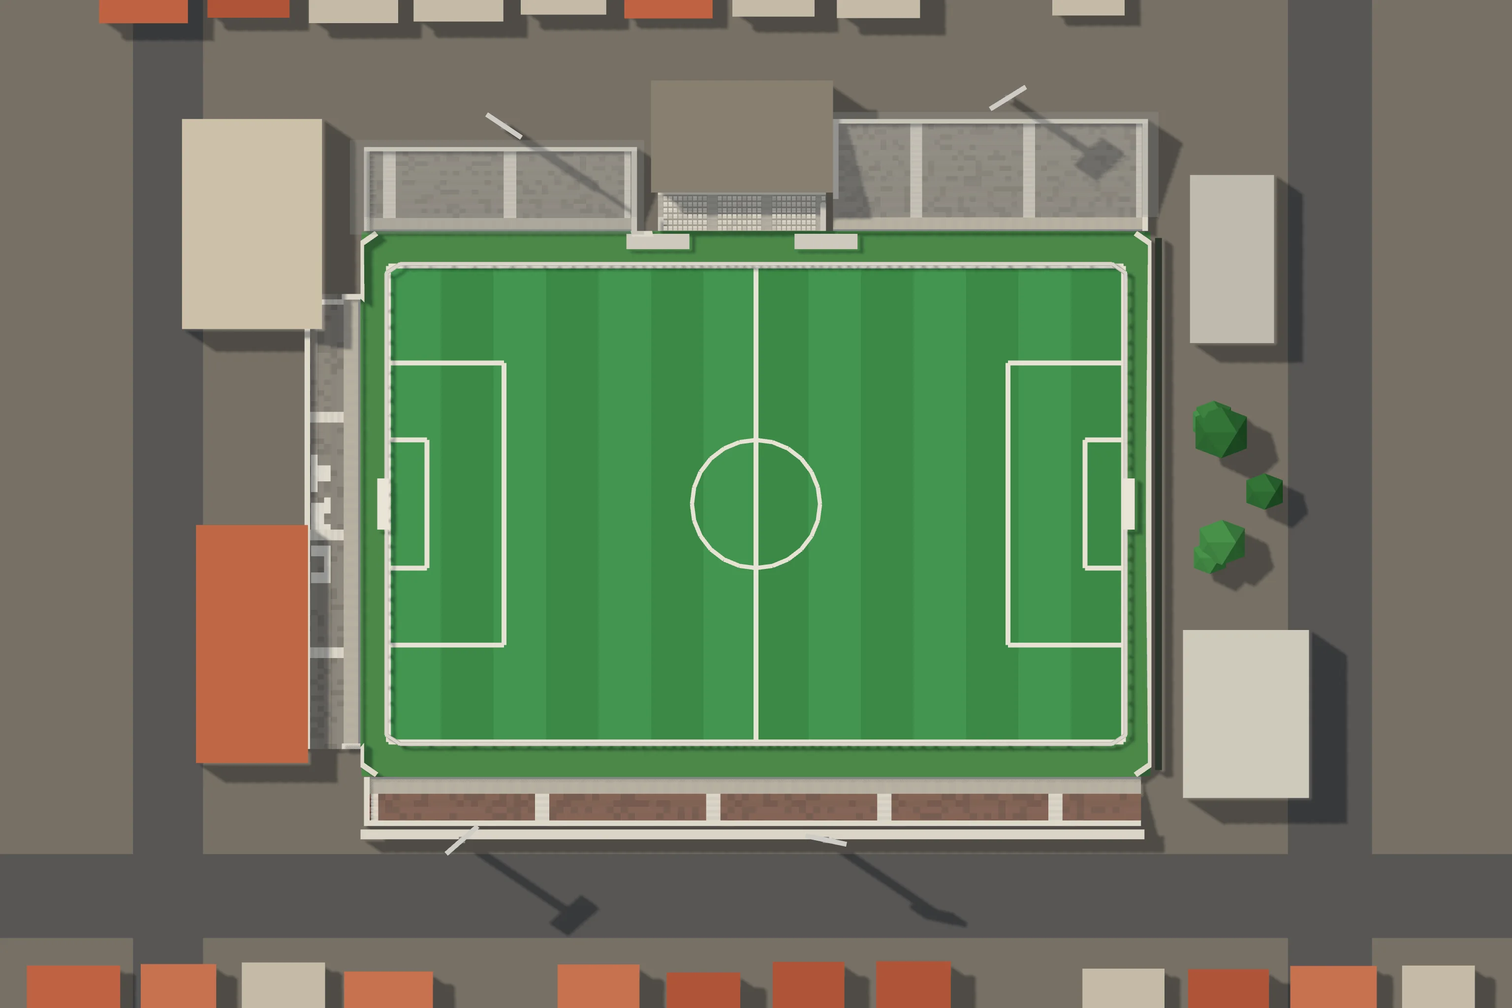
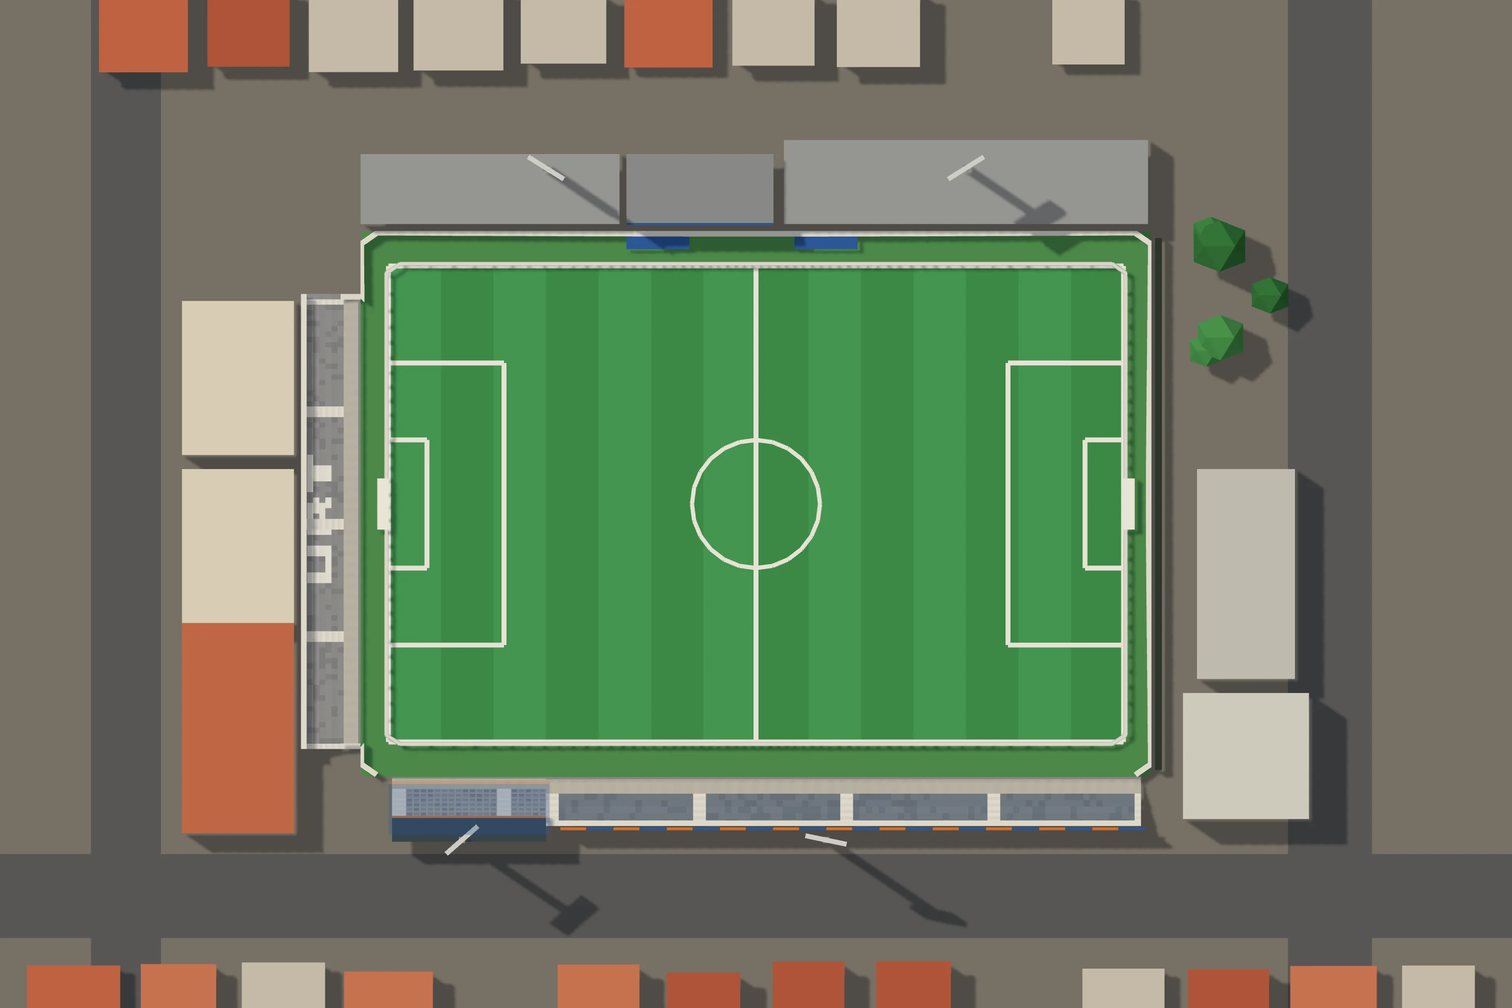
Zama Maciel pelas fotos do dono: o oeste sem arquibancada (os prédios do clube e a caixa das cabines), a lateral leste cinza-azulada com a tribuna BAMBU & SABIÁ, a arquibancada do sul com a visitante
Claude-Session: https://claude.ai/code/session_019hwwMAyyP7ZAvyq6wYTetr

Changed region(s): [[0.0625, 0.0, 0.9062, 0.875], [0.0625, 0.9062, 0.1562, 0.9688]]

diff --git a/cenario3d/dados/estadios_cenas.js b/cenario3d/dados/estadios_cenas.js
@@ -13006,37 +13006,37 @@ window.__ESTADIOS = {
    "visitante": 3
   },
   "foto": {
-   "imagem": "img/cenas/estadio_zama_maciel.webp?v=c364240a",
-   "mascara": "384;384;384;384;384;384;384;384;384;384;384;384;384;384;384;384;384;384;384;384;384;384;384;384;384;384;384;384;384;384;384;219,73,92;219,73,92;219,73,92;219,73,92;218,74,92;218,74,92;218,74,92;92,61,64,75,92;92,61,64,75,92;92,62,63,75,92;92,62,63,75,92;92,63,61,76,92;92,63,61,76,92;92,63,61,76,92;92,64,59,77,92;92,64,59,77,92;92,65,58,77,92;92,65,58,77,92;92,66,6,48,2,78,92;92,66,6,48,2,78,92;92,67,6,46,3,78,92;92,67,6,46,2,79,92;92,67,6,46,2,79,92;92,68,6,45,2,79,92;92,68,6,44,3,79,92;92,69,5,44,2,80,92;92,69,6,43,2,80,92;92,200,92;91,202,91;91,202,91;91,202,91;91,202,91;91,202,91;91,202,91;91,202,91;91,7,188,7,91;91,6,190,6,91;78,2,11,6,190,6,91;78,4,9,6,190,6,91;78,5,8,6,190,6,91;78,7,6,6,190,6,91;78,9,4,6,190,6,91;78,11,2,6,190,6,91;78,19,190,6,91;78,19,190,6,91;78,19,190,6,91;78,19,190,6,91;78,19,190,6,91;78,19,190,6,91;78,19,190,6,91;78,19,190,6,91;78,19,190,6,91;78,19,190,6,91;78,19,190,6,91;78,19,190,6,91;78,19,190,6,91;78,19,190,6,91;78,19,190,6,91;78,19,190,6,91;78,19,190,6,91;78,19,190,6,91;78,19,190,6,91;78,19,190,6,91;78,19,190,6,91;78,19,190,6,91;78,19,190,6,91;78,19,190,6,91;78,19,190,6,91;78,19,190,6,91;78,19,190,6,91;78,19,190,6,91;78,19,190,6,91;78,19,190,6,91;78,19,190,6,91;78,19,190,6,91;78,19,190,6,91;78,19,190,6,91;78,19,190,6,91;78,19,190,6,91;78,19,190,6,91;78,19,190,6,91;78,19,190,6,91;78,19,190,6,91;78,19,190,6,91;78,19,190,6,91;78,19,190,6,91;78,19,190,6,91;78,19,190,6,91;78,19,190,6,91;78,19,190,6,91;78,19,190,6,91;78,19,190,6,91;78,19,190,6,91;78,19,190,6,91;78,19,190,6,91;78,19,190,6,91;78,19,190,6,91;78,19,190,6,91;78,19,190,6,91;78,19,190,6,91;78,19,190,6,91;78,19,190,6,91;78,19,190,6,91;78,19,190,6,91;78,19,190,6,91;78,19,190,6,91;78,19,190,6,91;78,19,190,6,91;78,19,190,6,91;78,19,190,6,91;78,19,190,6,91;78,19,190,6,91;78,19,190,6,91;78,19,190,6,91;78,19,190,6,91;78,19,190,6,91;78,19,190,6,91;78,19,190,6,91;78,19,190,6,91;78,19,190,6,91;78,19,190,6,91;78,19,190,6,91;78,19,190,6,91;78,19,190,6,91;78,19,190,6,91;78,19,190,6,91;78,19,190,6,91;78,19,190,6,91;78,19,190,6,91;78,19,190,6,91;78,19,190,6,91;78,19,190,6,91;78,19,190,6,91;78,19,190,6,91;78,19,190,6,91;78,19,190,6,91;78,19,190,6,91;78,19,190,6,91;78,19,190,6,91;78,19,190,6,91;78,19,190,6,91;78,19,190,6,91;78,19,190,6,91;78,19,190,6,91;78,19,190,6,91;78,19,190,6,91;78,19,190,6,91;78,19,190,6,91;78,19,190,6,91;78,19,190,6,91;78,19,190,6,91;78,19,190,6,91;78,19,190,6,91;78,19,190,6,91;78,19,190,6,91;78,19,190,6,91;78,19,190,6,91;78,19,190,6,91;78,20,188,7,91;78,215,91;78,11,2,202,91;78,10,3,202,91;78,8,5,202,91;78,6,7,202,91;78,5,8,202,91;78,3,10,202,91;92,199,93;92,199,93;92,200,92;92,200,92;92,200,92;92,200,92;92,200,92;92,200,92;92,200,92;92,200,92;92,200,92;92,200,92;384;384;384;384;384;384;384;384;384;384;384;384;384;384;384;384;384;384;384;384;384;384;384;384;384;384;384;384;384;384;384;384;384;384;384;384;384;384;384;384;384;384;384;384;384;384;384"
+   "imagem": "img/cenas/estadio_zama_maciel.webp?v=2e8cee1f",
+   "mascara": "384;384;384;384;384;384;384;384;384;384;384;384;384;384;384;384;384;384;384;384;384;384;384;384;384;384;384;384;384;384;384;384;384;384;384;384;384;384;384;384;384;384;384;384;384;384;384;384;384;384;384;384;384;384;384;384;384;384;136,112,136;91,202,91;91,202,91;91,202,91;91,202,91;91,202,91;91,202,91;91,202,91;91,7,188,7,91;77,1,13,6,190,6,91;77,3,11,6,190,6,91;77,5,9,6,190,6,91;77,6,8,6,190,6,91;77,8,6,6,190,6,91;77,10,4,6,190,6,91;77,12,2,6,190,6,91;77,20,190,6,91;77,20,190,6,91;77,20,190,6,91;77,20,190,6,91;77,20,190,6,91;77,20,190,6,91;77,20,190,6,91;77,20,190,6,91;77,20,190,6,91;77,20,190,6,91;77,20,190,6,91;77,20,190,6,91;77,20,190,6,91;77,20,190,6,91;77,20,190,6,91;77,20,190,6,91;77,20,190,6,91;77,20,190,6,91;77,20,190,6,91;77,20,190,6,91;77,20,190,6,91;77,20,190,6,91;77,20,190,6,91;77,20,190,6,91;77,20,190,6,91;77,20,190,6,91;77,20,190,6,91;77,20,190,6,91;77,20,190,6,91;77,20,190,6,91;77,20,190,6,91;77,20,190,6,91;77,20,190,6,91;77,20,190,6,91;77,20,190,6,91;77,20,190,6,91;77,20,190,6,91;77,20,190,6,91;77,20,190,6,91;77,20,190,6,91;77,20,190,6,91;77,20,190,6,91;77,20,190,6,91;77,20,190,6,91;77,20,190,6,91;77,20,190,6,91;77,20,190,6,91;77,20,190,6,91;77,20,190,6,91;77,20,190,6,91;77,20,190,6,91;77,20,190,6,91;77,20,190,6,91;77,20,190,6,91;77,20,190,6,91;77,20,190,6,91;77,20,190,6,91;77,20,190,6,91;77,20,190,6,91;77,20,190,6,91;77,20,190,6,91;77,20,190,6,91;77,20,190,6,91;77,20,190,6,91;77,20,190,6,91;77,20,190,6,91;77,20,190,6,91;77,20,190,6,91;77,20,190,6,91;77,20,190,6,91;77,20,190,6,91;77,20,190,6,91;77,20,190,6,91;77,20,190,6,91;77,20,190,6,91;77,20,190,6,91;77,20,190,6,91;77,20,190,6,91;77,20,190,6,91;77,20,190,6,91;77,20,190,6,91;77,20,190,6,91;77,20,190,6,91;77,20,190,6,91;77,20,190,6,91;77,20,190,6,91;77,20,190,6,91;77,20,190,6,91;77,20,190,6,91;77,20,190,6,91;77,20,190,6,91;77,20,190,6,91;77,20,190,6,91;77,20,190,6,91;77,20,190,6,91;77,20,190,6,91;77,20,190,6,91;77,20,190,6,91;77,20,190,6,91;77,20,190,6,91;77,20,190,6,91;77,20,190,6,91;77,20,190,6,91;77,20,190,6,91;77,20,190,6,91;77,20,190,6,91;77,20,190,6,91;77,20,190,6,91;77,20,190,6,91;77,20,190,6,91;77,20,190,6,91;77,20,190,6,91;77,20,190,6,91;77,20,190,6,91;77,20,190,6,91;77,21,188,7,91;77,216,91;77,12,2,202,91;77,11,3,202,91;77,9,5,202,91;77,7,7,202,91;77,6,8,202,91;77,4,10,202,91;99,192,93;98,193,93;97,195,92;95,197,92;94,198,92;93,199,92;92,200,92;92,200,92;92,200,92;92,200,92;92,200,92;92,200,92;384;384;384;384;384;384;384;384;384;384;384;384;384;384;384;384;384;384;384;384;384;384;384;384;384;384;384;384;384;384;384;384;384;384;384;384;384;384;384;384;384;384;384;384;384;384;384"
   },
   "cena": {
    "nome": "Zama Maciel",
    "faixas": {
     "mandante1": {
-     "x": 1536,
+     "x": 1580,
      "y": 1522,
      "len": 130,
      "dir": [
-      0,
+      -0.09,
       -1
      ]
     },
     "mandante2": {
-     "x": 1120,
-     "y": 529,
+     "x": 1871,
+     "y": 1520,
      "len": 130,
      "dir": [
-      0.64,
-      0.77
+      -0.56,
+      -0.83
      ]
     },
     "mandante3": {
-     "x": 1896,
-     "y": 528,
+     "x": 1214,
+     "y": 1520,
      "len": 130,
      "dir": [
-      -0.59,
-      0.81
+      0.54,
+      -0.84
      ]
     },
     "visitante1": {
@@ -13073,7 +13073,7 @@ window.__ESTADIOS = {
      "rot": "MANDANTE 1º ESCALÃO",
      "lado": "mandante",
      "entrada": "portao_mandante",
-     "x": 1536,
+     "x": 1586,
      "y": 1595,
      "jogador": true
     },
@@ -13082,23 +13082,23 @@ window.__ESTADIOS = {
      "rot": "MANDANTE 2º ESCALÃO",
      "lado": "mandante",
      "entrada": "portao_mandante",
-     "x": 1027,
-     "y": 417
+     "x": 1921,
+     "y": 1595
     },
     {
      "id": "mandante3",
      "rot": "MANDANTE 3º ESCALÃO",
      "lado": "mandante",
      "entrada": "portao_mandante",
-     "x": 1997,
-     "y": 389
+     "x": 1165,
+     "y": 1595
     },
     {
      "id": "visitante1",
      "rot": "VISITANTE 1º ESCALÃO",
      "lado": "visitante",
      "entrada": "portao_visitante",
-     "x": 702,
+     "x": 698,
      "y": 1024
     },
     {
@@ -13106,16 +13106,16 @@ window.__ESTADIOS = {
      "rot": "VISITANTE 2º ESCALÃO",
      "lado": "visitante",
      "entrada": "portao_visitante",
-     "x": 694,
-     "y": 925
+     "x": 690,
+     "y": 924
     },
     {
      "id": "visitante3",
      "rot": "VISITANTE 3º ESCALÃO",
      "lado": "visitante",
      "entrada": "portao_visitante",
-     "x": 710,
-     "y": 1121
+     "x": 707,
+     "y": 1122
     }
    ],
    "entradas": [
@@ -13125,10 +13125,10 @@ window.__ESTADIOS = {
      "lado": "mandante",
      "raio": 40,
      "dir": [
-      0,
+      0.09,
       1
      ],
-     "x": 1536,
+     "x": 1589,
      "y": 1628
     },
     {
@@ -13140,26 +13140,26 @@ window.__ESTADIOS = {
       -1,
       0
      ],
-     "x": 669,
+     "x": 629,
      "y": 1024
     }
    ],
    "pmPostos": [
     {
-     "x": 727,
+     "x": 724,
      "y": 807
     },
     {
-     "x": 669,
-     "y": 792
+     "x": 664,
+     "y": 790
     },
     {
-     "x": 727,
+     "x": 724,
      "y": 1241
     },
     {
-     "x": 669,
-     "y": 1256
+     "x": 664,
+     "y": 1258
     }
    ],
    "grades": [
@@ -13171,8 +13171,8 @@ window.__ESTADIOS = {
       "y": 863
      },
      "ate": {
-      "x": 625,
-      "y": 830
+      "x": 618,
+      "y": 829
      },
      "modulos": 6,
      "espessura": 10
@@ -13185,8 +13185,8 @@ window.__ESTADIOS = {
       "y": 1185
      },
      "ate": {
-      "x": 625,
-      "y": 1218
+      "x": 618,
+      "y": 1219
      },
      "modulos": 6,
      "espessura": 10

diff --git a/cenario3d/planta.html b/cenario3d/planta.html
@@ -289,24 +289,24 @@ button:focus-visible, input:focus-visible { outline: 2px solid var(--selecao); o
 
 <script type="module">
 import * as THREE from 'https://cdn.jsdelivr.net/npm/three@0.160.0/build/three.module.min.js';
-import { planoDaCasa, montarCasa, juntarBlocos, lugarDoDecalque, placasDoLote, segmentosDoMuro, carrosDoEstacionamento, portaoDoEstacionamento } from './js/casas3d.js?v=b59ffd1335';
-import { montarModelos } from './js/modelos3d.js?v=b59ffd1335';
-import { moldeDaPeca, comTransformador } from './js/props3d.js?v=b59ffd1335';
-import { ATLAS } from './js/modelos_atlas.js?v=b59ffd1335';
-import { Construtor, sorteio } from './js/construtor3d.js?v=b59ffd1335';
-import { gerarProposta, MAPAS, MAPA_DO_PORTE, RUA, LONGE_DO_ESTADIO_M, cisaoDaPraca, VAO_CIDADES_M, PRAIA_A_MAIS } from './js/proposta.js?v=b59ffd1335';
-import { montarSede, nivelQueCabe } from './js/sede3d.js?v=b59ffd1335';
-import { onibus as onibusDetalhe, juntar as juntarDetalhe } from './js/detalhe3d.js?v=b59ffd1335';
-import { montarLoteDeVeraneio, plantaDoLote, festaNoMundo, noMundoDoLote, cenaDaFesta, detalheDaCasaDaFesta } from './js/veraneio3d.js?v=b59ffd1335';
-import { montarCaravana, cenaDaCaravana } from './js/caravana3d.js?v=b59ffd1335';
-import { montarEstacao, montarTunel, montarCarro, TREM } from './js/metro3d.js?v=b59ffd1335';
-import { montarShopping, montarDelegacia, montarPraca, montarIgreja, montarEscola, montarHospital } from './js/equip3d.js?v=b59ffd1335';
-import { montarEquipAntigo, TIPOS_ANTIGOS } from './js/equip_antigo3d.js?v=b59ffd1335';
-import { PECAS_PRAIA, montarPecaDaPraia } from './js/praia3d.js?v=b59ffd1335';
-import { ESPECIES_LP, FLORA_LP, montarArvoreLowpoly, montarAsDez, facesDaArvore, especieLowpolyDe } from './js/arvores_lowpoly.js?v=b59ffd1335';
-import { plantarMato, montarMato, LONGE_M, DENSIDADE, LADRILHO_M } from './js/mato3d.js?v=b59ffd1335';
-import { ESTADIOS_JOGO, montarEstadioJogo, glbDoEstadio, cortarEstadio, plantaDoEstadio, modeloDaLotacao, nomeDoLetreiro, nomeComAcento, marcaDoEstadio, BOCAS_DOS_PORTOES, BILHETERIAS_DA_RUA } from './js/estadios3d.js?v=b59ffd1335';
-import { PECAS_AMBULANTES, montarAmbulante } from './js/ambulantes3d.js?v=b59ffd1335';
+import { planoDaCasa, montarCasa, juntarBlocos, lugarDoDecalque, placasDoLote, segmentosDoMuro, carrosDoEstacionamento, portaoDoEstacionamento } from './js/casas3d.js?v=353cb2289a';
+import { montarModelos } from './js/modelos3d.js?v=353cb2289a';
+import { moldeDaPeca, comTransformador } from './js/props3d.js?v=353cb2289a';
+import { ATLAS } from './js/modelos_atlas.js?v=353cb2289a';
+import { Construtor, sorteio } from './js/construtor3d.js?v=353cb2289a';
+import { gerarProposta, MAPAS, MAPA_DO_PORTE, RUA, LONGE_DO_ESTADIO_M, cisaoDaPraca, VAO_CIDADES_M, PRAIA_A_MAIS } from './js/proposta.js?v=353cb2289a';
+import { montarSede, nivelQueCabe } from './js/sede3d.js?v=353cb2289a';
+import { onibus as onibusDetalhe, juntar as juntarDetalhe } from './js/detalhe3d.js?v=353cb2289a';
+import { montarLoteDeVeraneio, plantaDoLote, festaNoMundo, noMundoDoLote, cenaDaFesta, detalheDaCasaDaFesta } from './js/veraneio3d.js?v=353cb2289a';
+import { montarCaravana, cenaDaCaravana } from './js/caravana3d.js?v=353cb2289a';
+import { montarEstacao, montarTunel, montarCarro, TREM } from './js/metro3d.js?v=353cb2289a';
+import { montarShopping, montarDelegacia, montarPraca, montarIgreja, montarEscola, montarHospital } from './js/equip3d.js?v=353cb2289a';
+import { montarEquipAntigo, TIPOS_ANTIGOS } from './js/equip_antigo3d.js?v=353cb2289a';
+import { PECAS_PRAIA, montarPecaDaPraia } from './js/praia3d.js?v=353cb2289a';
+import { ESPECIES_LP, FLORA_LP, montarArvoreLowpoly, montarAsDez, facesDaArvore, especieLowpolyDe } from './js/arvores_lowpoly.js?v=353cb2289a';
+import { plantarMato, montarMato, LONGE_M, DENSIDADE, LADRILHO_M } from './js/mato3d.js?v=353cb2289a';
+import { ESTADIOS_JOGO, montarEstadioJogo, glbDoEstadio, cortarEstadio, plantaDoEstadio, modeloDaLotacao, nomeDoLetreiro, nomeComAcento, marcaDoEstadio, BOCAS_DOS_PORTOES, BILHETERIAS_DA_RUA } from './js/estadios3d.js?v=353cb2289a';
+import { PECAS_AMBULANTES, montarAmbulante } from './js/ambulantes3d.js?v=353cb2289a';
 
 const $ = id => document.getElementById(id);
 const aviso = $('aviso');
@@ -323,25 +323,25 @@ function carregarScript(src) {
 }
 window.TO = window.TO || { dados: {} };
 try {
-  await carregarScript('dados/torcidas.js?v=b59ffd1335');
-  await carregarScript('dados/times.js?v=b59ffd1335');
-  await carregarScript('dados/cena_estadio.js?v=b59ffd1335');
-  await carregarScript('dados/cidades.js?v=b59ffd1335');
-  await carregarScript('dados/estadios.js?v=b59ffd1335');
-  await carregarScript('dados/escudos.js?v=b59ffd1335');
+  await carregarScript('dados/torcidas.js?v=353cb2289a');
+  await carregarScript('dados/times.js?v=353cb2289a');
+  await carregarScript('dados/cena_estadio.js?v=353cb2289a');
+  await carregarScript('dados/cidades.js?v=353cb2289a');
+  await carregarScript('dados/estadios.js?v=353cb2289a');
+  await carregarScript('dados/escudos.js?v=353cb2289a');
   /* o manifesto das faixas de verdade (a arte do dono, 29/09/2026): a arquibancada estende a da torcida */
-  await carregarScript('dados/faixas.js?v=b59ffd1335').catch(() => {});
+  await carregarScript('dados/faixas.js?v=353cb2289a').catch(() => {});
   /* O DOMÍNIO DOS BAIRROS (o dono, 30/09/2026): as sedes repetidas num
      bairro saem espalhadas (nos dados, na carga) e os bares ganham o
      bairro deles — o mesmo módulo do jogo (js/mundo/dominio.js) */
-  await carregarScript('js/dominio.js?v=b59ffd1335').catch(() => {});
+  await carregarScript('js/dominio.js?v=353cb2289a').catch(() => {});
 } catch (e) {
   aviso.textContent = 'A planta da cidade não carregou (' + e.message + '). Recarregue a página.';
   throw e;
 }
 /* os PNG dos escudos, embutidos (o montar.sh gera): sem o arquivo, o
    caminho vai direto pra img/escudos/ */
-await carregarScript('dados/escudos_embutidos.js?v=b59ffd1335').catch(() => {});
+await carregarScript('dados/escudos_embutidos.js?v=353cb2289a').catch(() => {});
 const P = TO.dados.plantaEstadio, K = P.CIDADE, M = P.METRO, CALC = K.CALC;
 /* o mapa da vez (o pequeno, o médio ou o grande, montado pra praça
    escolhida): quem monta é usarMapa, lá embaixo */

diff --git a/cenario3d/js/jogo2d.js b/cenario3d/js/jogo2d.js
@@ -17,7 +17,7 @@
    cartão da partida cai perto da hora da bola e nada do que conta o
    placar passa na frente dele.
    ========================================================= */
-import { CASCA } from './jogo_casca.js?v=b59ffd1335';
+import { CASCA } from './jogo_casca.js?v=353cb2289a';
 
 const carregarScript = src => new Promise((ok, erro) => {
   const s = document.createElement('script');
@@ -31,17 +31,17 @@ async function montarJogo() {
   caixa.innerHTML = CASCA;
   while (caixa.firstChild) document.body.appendChild(caixa.firstChild);
   /* os escudos, as fotos das praças e as bandeiras embutidos (o `IMG()` do jogo procura aqui antes do caminho) */
-  await carregarScript('dados/imagens_jogo.js?v=b59ffd1335').catch(() => {});
+  await carregarScript('dados/imagens_jogo.js?v=353cb2289a').catch(() => {});
   /* os estádios low-poly das cenas (ferramentas/estadios/assar.js): antes do jogo, que monta as cenas quando carrega */
-  await carregarScript('dados/estadios_cenas.js?v=b59ffd1335').catch(() => {});
+  await carregarScript('dados/estadios_cenas.js?v=353cb2289a').catch(() => {});
   /* sem o rolo do feed: a tela entre os jogos é o portal */
   window.TO = window.TO || {};
   TO.semFeed = true;
-  await carregarScript('js/jogo.js?v=b59ffd1335');
-  await carregarScript('js/portal.js?v=b59ffd1335').catch(err => console.error('o portal não carregou:', err));
+  await carregarScript('js/jogo.js?v=353cb2289a');
+  await carregarScript('js/portal.js?v=353cb2289a').catch(err => console.error('o portal não carregou:', err));
   /* o boneco das cenas de imagem (os dois níveis afinados, em base64) */
-  if (!TO.dados.bonecoPertoGLB) await carregarScript('dados/boneco_glb.js?v=b59ffd1335').catch(() => {});
-  await import('./bonecos3_global.js?v=b59ffd1335').catch(err => console.error('o boneco das cenas não carregou:', err));
+  if (!TO.dados.bonecoPertoGLB) await carregarScript('dados/boneco_glb.js?v=353cb2289a').catch(() => {});
+  await import('./bonecos3_global.js?v=353cb2289a').catch(err => console.error('o boneco das cenas não carregou:', err));
   ligar();
 }
 

diff --git a/cenario3d/jogo.html b/cenario3d/jogo.html
@@ -9,16 +9,16 @@
 <link rel="preconnect" href="https://fonts.googleapis.com">
 <link rel="preconnect" href="https://fonts.gstatic.com" crossorigin>
 <link rel="stylesheet" href="https://fonts.googleapis.com/css2?family=Barlow+Semi+Condensed:wght@500;600;700&family=Barlow:wght@400;500;600&family=IBM+Plex+Mono:wght@400;500&display=swap">
-<link rel="stylesheet" href="css/jogo.css?v=b59ffd1335">
-<link rel="stylesheet" href="css/jogo3d.css?v=b59ffd1335">
-<link rel="stylesheet" href="css/portal.css?v=b59ffd1335">
-<link rel="stylesheet" href="css/telas3d.css?v=b59ffd1335">
+<link rel="stylesheet" href="css/jogo.css?v=353cb2289a">
+<link rel="stylesheet" href="css/jogo3d.css?v=353cb2289a">
+<link rel="stylesheet" href="css/portal.css?v=353cb2289a">
+<link rel="stylesheet" href="css/telas3d.css?v=353cb2289a">
 <style>
 [hidden] { display: none !important; }
 html, body { height: 100%; margin: 0; }
 </style>
 </head>
 <body class="jogo3d">
-<script type="module" src="js/jogo2d.js?v=b59ffd1335"></script>
+<script type="module" src="js/jogo2d.js?v=353cb2289a"></script>
 </body>
 </html>

diff --git a/cenario3d/js/casas3d.js b/cenario3d/js/casas3d.js
@@ -60,10 +60,10 @@
    avançam (`rec`), e o letreiro, a pixação e a falha de reboco do
    bairro vão pro plano dessa parede, não pro da divisa.
    ========================================================= */
-import { Construtor, METRO, mureta, toldo, arSplit, sorteio } from './construtor3d.js?v=b59ffd1335';
-import { ATLAS } from './modelos_atlas.js?v=b59ffd1335';
+import { Construtor, METRO, mureta, toldo, arSplit, sorteio } from './construtor3d.js?v=353cb2289a';
+import { ATLAS } from './modelos_atlas.js?v=353cb2289a';
 /* as lojas do assalto (lojas3d.js): modelos de lote como os outros */
-import { TIPOS_LOJA, REC_LOJA, placaDaLoja } from './lojas3d.js?v=b59ffd1335';
+import { TIPOS_LOJA, REC_LOJA, placaDaLoja } from './lojas3d.js?v=353cb2289a';
 
 /* o arquivo de cada folha, pro bairro montar o material dele */
 export const arquivoDaFolha = folha => ATLAS[folha].arquivo;

diff --git a/cenario3d/js/ambulantes3d.js b/cenario3d/js/ambulantes3d.js
@@ -27,8 +27,8 @@
    que a planta acha o lugar dela na calçada do estádio. `sol`: o meio e
    o raio da copa ([x, z, r]), que o mapa desenha de perto.
    ========================================================= */
-import { Construtor, noMundo, placasNoMundo, sorteio, esfera, unit } from './construtor3d.js?v=b59ffd1335';
-import { Lugar, barra, tubo, cilindro, bloco, pano, toro, guardaSol, cadeiraPlastica, isopor, banqueta, CORES_SOL } from './praia3d.js?v=b59ffd1335';
+import { Construtor, noMundo, placasNoMundo, sorteio, esfera, unit } from './construtor3d.js?v=353cb2289a';
+import { Lugar, barra, tubo, cilindro, bloco, pano, toro, guardaSol, cadeiraPlastica, isopor, banqueta, CORES_SOL } from './praia3d.js?v=353cb2289a';
 
 const AQUI = Lugar();
 const escolha = (rnd, lista) => lista[Math.floor(rnd() * lista.length) % lista.length];

diff --git a/cenario3d/js/praia3d.js b/cenario3d/js/praia3d.js
@@ -36,8 +36,8 @@
    cadeira e a mesa de plástico) servem também os ambulantes da porta do
    estádio (ambulantes3d.js), na mesma folha.
    ========================================================= */
-import { Construtor, METRO, lerp, sub, soma, esc, unit, pv, noMundo, placasNoMundo, sorteio, varrer, esfera } from './construtor3d.js?v=b59ffd1335';
-import { montarArvoreLowpoly } from './arvores_lowpoly.js?v=b59ffd1335';
+import { Construtor, METRO, lerp, sub, soma, esc, unit, pv, noMundo, placasNoMundo, sorteio, varrer, esfera } from './construtor3d.js?v=353cb2289a';
+import { montarArvoreLowpoly } from './arvores_lowpoly.js?v=353cb2289a';
 
 const ALTO = [0, 1, 0];
 const escolha = (rnd, lista) => lista[Math.floor(rnd() * lista.length) % lista.length];

diff --git a/cenario3d/js/modelos3d.js b/cenario3d/js/modelos3d.js
@@ -32,8 +32,8 @@
    requadro da janela, toldo, ar-condicionado. O resto é pintura.
    ========================================================= */
 import * as THREE from 'https://cdn.jsdelivr.net/npm/three@0.160.0/build/three.module.min.js';
-import { ATLAS } from './modelos_atlas.js?v=b59ffd1335';
-import { Construtor, METRO, lerp, sub, soma, esc, pv, pe, unit, recuoPoligono, mureta, toldo, arSplit } from './construtor3d.js?v=b59ffd1335';
+import { ATLAS } from './modelos_atlas.js?v=353cb2289a';
+import { Construtor, METRO, lerp, sub, soma, esc, pv, pe, unit, recuoPoligono, mureta, toldo, arSplit } from './construtor3d.js?v=353cb2289a';
 
 /* =======================================================
    1. A IGREJA MATRIZ

diff --git a/cenario3d/js/props3d.js b/cenario3d/js/props3d.js
@@ -26,8 +26,8 @@
    poste vira uma haste de longe; o resto, que é miúdo, some.
    ========================================================= */
 import * as THREE from 'https://cdn.jsdelivr.net/npm/three@0.160.0/build/three.module.min.js';
-import { ATLAS } from './modelos_atlas.js?v=b59ffd1335';
-import { Construtor, METRO, lerp } from './construtor3d.js?v=b59ffd1335';
+import { ATLAS } from './modelos_atlas.js?v=353cb2289a';
+import { Construtor, METRO, lerp } from './construtor3d.js?v=353cb2289a';
 
 /* as cores que o vértice dá pro que sai claro na folha */
 const COR_CESTO = ['#6aa33a', '#d2b53a', '#3f82ad', '#8b6a3c', '#b8452f'];

diff --git a/cenario3d/js/mato3d.js b/cenario3d/js/mato3d.js
@@ -19,8 +19,8 @@
 
    Tudo em metros; `noMundo` converte. A mesma semente dá o mesmo mato.
    ========================================================= */
-import { METRO, noMundo, sorteio } from './construtor3d.js?v=b59ffd1335';
-import { facesDaArvore, especieLowpolyDe } from './arvores_lowpoly.js?v=b59ffd1335';
+import { METRO, noMundo, sorteio } from './construtor3d.js?v=353cb2289a';
+import { facesDaArvore, especieLowpolyDe } from './arvores_lowpoly.js?v=353cb2289a';
 
 /* a área de chão de cada árvore (m²), por lugar */
 export const DENSIDADE = { mata: 70, cerrado: 200, caatinga: 150, sul: 90, praia: 120, cidade: 250 };

diff --git a/cenario3d/js/bonecos3_global.js b/cenario3d/js/bonecos3_global.js
@@ -14,7 +14,7 @@
    DOMContentLoaded: quem usa (a ponte, numa cena aberta pelo jogador)
    chega muito depois.
    ========================================================= */
-import { montar, desenharDeCima, desenharVitrine, limparDeCima, fotoDoTrofeu, fotoDaBriga, fotoDaCena, perdeu, bonecos } from './bonecos3_cena.js?v=b59ffd1335';
+import { montar, desenharDeCima, desenharVitrine, limparDeCima, fotoDoTrofeu, fotoDaBriga, fotoDaCena, perdeu, bonecos } from './bonecos3_cena.js?v=353cb2289a';
 
 window.TO = window.TO || {};
 TO.diaJogo = TO.diaJogo || {};

diff --git a/cenario3d/js/bonecos3_cena.js b/cenario3d/js/bonecos3_cena.js
@@ -103,7 +103,7 @@
       numa fase sorteada (quem sai junto não sai no mesmo pé).
    ========================================================= */
 import * as THREE from 'https://cdn.jsdelivr.net/npm/three@0.160.0/build/three.module.min.js';
-import { GLTFLoader, SkeletonUtils } from './GLTFLoader.js?v=b59ffd1335';
+import { GLTFLoader, SkeletonUtils } from './GLTFLoader.js?v=353cb2289a';
 
 /* onde o modelo mora, quando não vem embutido em base64: o detalhado
    (o do Blender) e os dois níveis afinados dele (ferramentas/afinar_boneco.mjs) */
